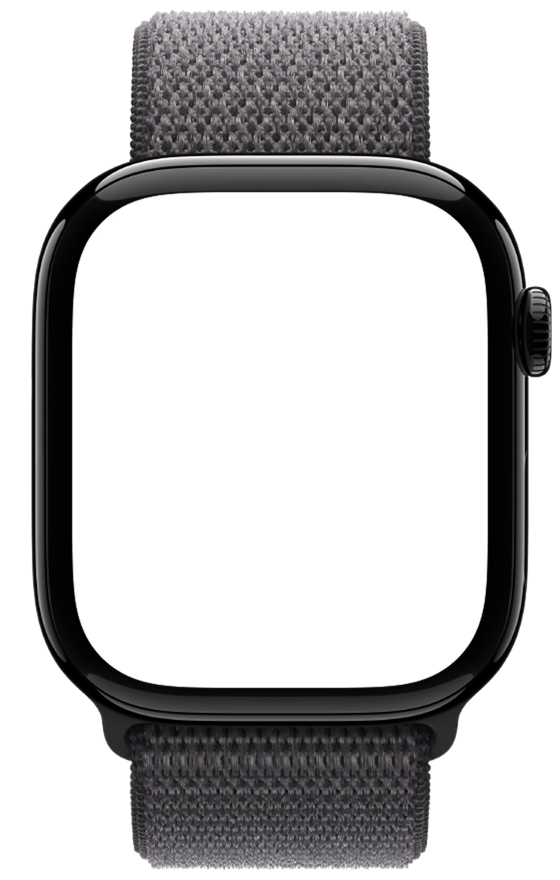
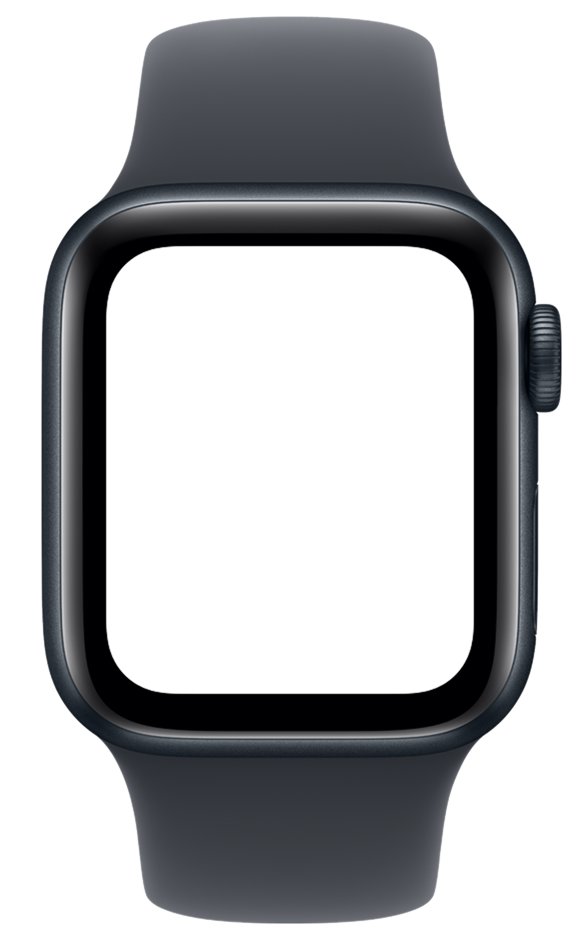
Add app screenshots in Apple Watch SE 44 mm frame
- Replace the Series 10 frame with Apple's SE 44 mm bezel, sized so its
  screen matches the 368 x 448 screenshots exactly
- Add hero, start, stop and review screenshots from the app
- Slightly larger watch images to keep the screen size readable

diff --git a/style.css b/style.css
@@ -276,25 +276,25 @@ main {
     font-size: 0.875rem;
 }
 
-/* Device images: Apple's official Apple Watch frame (images/watch-frame.png, 560 × 880)
-   layered over a plain 416 × 496 screenshot. The screen box matches the frame's transparent
-   screen area: x 72-488, y 192-688. */
+/* Device images: Apple's official Apple Watch SE 44 mm frame (images/watch-frame.png, 580 × 940)
+   layered over a plain 368 × 448 screenshot from an SE 44 mm. The screen box matches the frame's
+   transparent screen area: x 106-474, y 246-694. */
 
 .device {
     --w: 13rem;
     position: relative;
     width: var(--w);
-    aspect-ratio: 560 / 880;
+    aspect-ratio: 580 / 940;
     margin: 0;
     justify-self: center;
 }
 
 .hero .device {
-    --w: clamp(13rem, 24vw, 17rem);
+    --w: clamp(14rem, 26vw, 19rem);
 }
 
 .feature .device {
-    --w: 11rem;
+    --w: 12rem;
 }
 
 .device__frame {
@@ -307,16 +307,16 @@ main {
 
 .device__screen {
     position: absolute;
-    left: 12.857%;
-    top: 21.818%;
-    width: 74.286%;
-    height: 56.364%;
+    left: 18.276%;
+    top: 26.170%;
+    width: 63.448%;
+    height: 47.660%;
     display: grid;
     place-items: center;
     overflow: hidden;
-    /* Slightly tighter than the frame's ~102 px screen corners so the
+    /* Slightly tighter than the frame's ~65 px screen corners so the
        square box never shows past the case. */
-    border-radius: 22% / 18.5%;
+    border-radius: 16% / 13%;
     background: #000000;
 }
 
